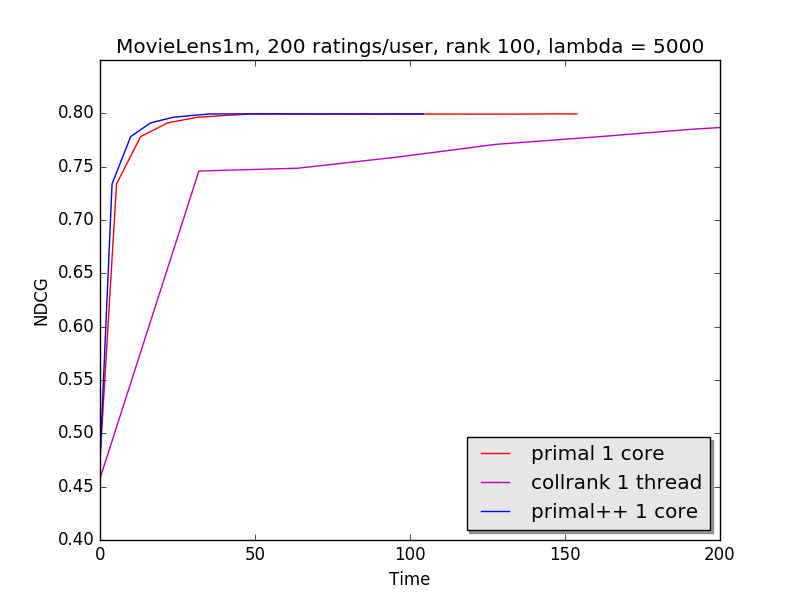
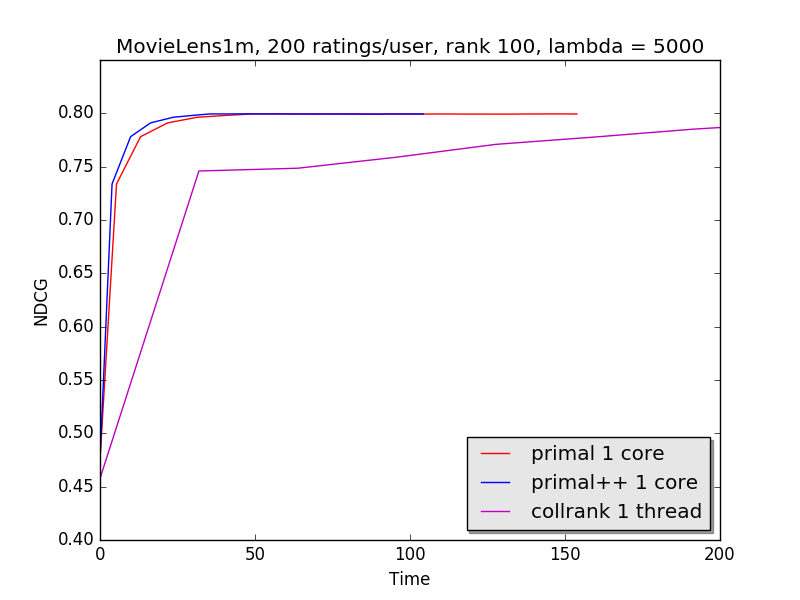
new results and new plots

Changed region(s): [[0.6562, 0.78, 0.875, 0.87], [0.5938, 0.84, 0.625, 0.87], [0.5938, 0.78, 0.625, 0.81]]

diff --git a/multiple_comparisons.py b/multiple_comparisons.py
@@ -118,18 +118,112 @@ plt.show()
 
 
 fig, ax = plt.subplots()
-#ax.plot(w20[:,1], w20[:,3], 'r--', label='primal++ 1 core, 20 ratings/user, ')
-ax.plot(w50[:,1], w50[:,4], 'y', label='primal++ 1 core, 50 ratings/user, ')
-ax.plot(w100[:,1], w100[:,4], 'm', label='primal++ 1 core, 100 ratings/user, ')
-ax.plot(wALL[:,1], wALL[:,4], 'r', label='primal++ 1 core, ALL ratings/user, ')
-#ax.plot(c20[:,1], c20[:,3], 'b--', label='Collrank 8 threads, 20 ratings/user, ')
-ax.plot(c50[:,1], c50[:,4], 'g', label='Collrank 8 threads, 50 ratings/user, ')
-ax.plot(c100[:,1], c100[:,4], 'k', label='Collrank 8 threads, 100 ratings/user, ')
-ax.plot(cALL[:,1], cALL[:,4], 'b', label='Collrank 8 threads, ALL ratings/user, ')
+ax.plot(w100[:,1], w100[:,4], 'y', label='primal++, 100 ratings/user, ')
+ax.plot(w200[:,1], w200[:,4], 'm', label='primal++, 200 ratings/user, ')
+ax.plot(wALL[:,1], wALL[:,4], 'r', label='primal++, ALL ratings/user, ')
+ax.plot(c100[:,1], c100[:,4], 'g', label='Collrank, 100 ratings/user, ')
+ax.plot(c200[:,1], c200[:,4], 'k', label='Collrank, 200 ratings/user, ')
+ax.plot(cALL[:,1], cALL[:,4], 'b', label='Collrank, ALL ratings/user, ')
 ax.set_title('Movielens1m, rank 100, lambda = 5000')
 ax.set_xlabel('Time')
 ax.set_ylabel('NDCG')
-ax.axis([0, 500, 0.8, 0.95])
+ax.axis([0, 600, 0.8, 0.95])
+legend = ax.legend(loc='lower right', shadow=True)
+frame = legend.get_frame()
+frame.set_facecolor('0.90')
+plt.show()
+
+
+
+# netflix 
+c100 = [
+[0, 1.274959, 1635174715.547165, 0.339939, 0.825891],
+[1, 2807.470494, 868787330.687747, 0.225250, 0.892637],                     
+[2, 5554.104146, 795659496.482044, 0.234046, 0.888513],                                                                     [3, 8607.687557, 732703565.288253, 0.216630, 0.896561],                                              [4, 11901.939931, 710332987.516510, 0.209245, 0.900613],
+[5, 14734.732480, 703181474.609954, 0.205986, 0.902742]
+]
+
+w100 = [
+[0, 0.0, 3.104201227569089e9, 0.3370612503920339, 0.8270589295773721],
+[1, 758.026451365, 9.093292182638285e8, 0.29012108362551114, 0.8576318383846491],
+[2, 1268.0814532959998, 8.00226565290458e8, 0.23400124426922872, 0.8870006022851462],
+[3, 2059.2630297709998, 7.176166101462697e8, 0.2129542963359061, 0.8983048123936501],
+[4, 3002.9207869469997, 7.049530811673784e8, 0.20759063451044324, 0.9015187613999887],
+[5, 3890.9395423379997, 7.015522170969367e8, 0.20555320160145027, 0.9029076858954467],
+[6, 4758.6520451629995, 7.001888827865567e8, 0.20455831726035315, 0.9035942382110752],
+[7, 5654.87765668, 6.995050762360861e8, 0.2040340639622298, 0.9039798835206194],
+[8, 6553.0171319949995, 6.991028590313526e8, 0.20377398538541236, 0.9041674278681452],
+[9, 7434.138969729999, 6.988378129745476e8, 0.20358747781938238, 0.9043112680114105],
+[10, 8338.437400457, 6.986487550853585e8, 0.20347028552960447, 0.9044160013926187],
+[11, 9244.082906137, 6.985062084719335e8, 0.2033754890428223, 0.9044747421316338],
+[12, 10117.825817495, 6.983943717379775e8, 0.20330489704621035, 0.9045164097743379],
+[13, 11044.356690179, 6.983040067704418e8, 0.20326053101367558, 0.9045529919037154],
+[14, 12090.212733668, 6.982293240182358e8, 0.20321690973468354, 0.9045911511553993],
+[15, 12952.93979126, 6.98166489961615e8, 0.2031833426285324, 0.904611314451005],
+[16, 13910.005332781, 6.981128524339632e8, 0.2031514778161961, 0.9046360211169883],
+[17, 14889.09199142, 6.980665106509316e8, 0.20312604980234533, 0.9046459015852302],
+[18, 16010.450114395, 6.980260622726946e8, 0.20310647342348004, 0.9046471996449771],
+[19, 16921.457602045, 6.979904472035501e8, 0.20306801222261303, 0.9046810732974607]
+]
+
+
+w200 = [
+[0, 0.0, 4.894810611395171e9, 0.3370612503920339, 0.8270589295773721],
+[1, 1201.834533829, 2.6468084386407547e9, 0.2730893148332908, 0.8664332066131606],
+[2, 2564.700072341, 1.817370074143698e9, 0.20590584240442236, 0.9032877662694269],
+[3, 3932.2804997780004, 1.6665412842800245e9, 0.19871710882330268, 0.9068498552375643],
+[4, 5293.911205403, 1.6377881305159297e9, 0.19648455048584182, 0.9081371849432358],
+[5, 6728.925144472, 1.625909694076408e9, 0.19508755242780018, 0.908978775944693],
+[6, 8371.963787394001, 1.619540550616677e9, 0.19427188770733844, 0.9095376768085387],
+[7, 9949.67377662, 1.6156447694178586e9, 0.1937352395823809, 0.9098594249514425],
+[8, 11584.961352919001, 1.6130230404952729e9, 0.19331232596289089, 0.9101331564259769],
+[9, 13068.64561664, 1.6111268524169197e9, 0.19301729716619864, 0.9103096785824207],
+[10, 14706.325626743, 1.6096803522707474e9, 0.1928274382092223, 0.9104305325871601],
+[11, 16247.511652442001, 1.608533646980944e9, 0.19263619613852248, 0.9105564041121083]
+]
+
+wALL = [
+[0, 0.0, 2.356595104129865e10, 0.3370612503920339, 0.8270589295773721],
+[1, 2499.885308779, 1.6324162774318296e10, 0.22614095577836765, 0.8886723885212457],
+[2, 5250.87474531, 1.3025803043487682e10, 0.1877387500314601, 0.9136425337809746],
+[3, 8160.924571495, 1.1778353292392849e10, 0.18249403598627645, 0.9172065764009472],
+[4, 11380.820924098, 1.1018778442620384e10, 0.18120268653808402, 0.9179732407004433],
+[5, 14674.481246448999, 1.0545434187009039e10, 0.18101612577537243, 0.9179751413029557]
+]
+import numpy as np
+import matplotlib.pyplot as plt
+
+c100 = np.array(c100)
+w100 = np.array(w100)
+w200 = np.array(w200)
+wALL = np.array(wALL)
+
+fig, ax = plt.subplots()
+ax.plot(w100[:,1], w100[:,3], 'y', label='primal++, 100 ratings/user, ')
+ax.plot(w200[:,1], w200[:,3], 'm', label='primal++, 200 ratings/user, ')
+ax.plot(wALL[:,1], wALL[:,3], 'r', label='primal++, ALL ratings/user, ')
+ax.plot(c100[:,1], c100[:,3], 'g', label='Collrank, 100 ratings/user, ')
+ax.set_title('Netflix, rank 100, lambda = 10000')
+ax.set_xlabel('Time')
+ax.set_ylabel('Pairwise_Error')
+ax.axis([0, 14000, 0.15, 0.4])
+legend = ax.legend(loc='upper right', shadow=True)
+frame = legend.get_frame()
+frame.set_facecolor('0.90')
+plt.show()
+
+
+fig, ax = plt.subplots()
+ax.plot(w100[:,1], w100[:,4], 'y', label='primal++, 100 ratings/user, ')
+ax.plot(w200[:,1], w200[:,4], 'm', label='primal++, 200 ratings/user, ')
+ax.plot(wALL[:,1], wALL[:,4], 'r', label='primal++, ALL ratings/user, ')
+ax.plot(c100[:,1], c100[:,4], 'g', label='Collrank, 100 ratings/user, ')
+ax.plot(c200[:,1], c200[:,4], 'k', label='Collrank, 200 ratings/user, ')
+ax.plot(cALL[:,1], cALL[:,4], 'b', label='Collrank, ALL ratings/user, ')
+ax.set_title('Netflix, rank 100, lambda = 10000')
+ax.set_xlabel('Time')
+ax.set_ylabel('NDCG')
+ax.axis([0, 14000, 0.8, 0.95])
 legend = ax.legend(loc='lower right', shadow=True)
 frame = legend.get_frame()
 frame.set_facecolor('0.90')

diff --git a/new_results.py b/new_results.py
@@ -154,11 +154,11 @@ ax.plot(w_1c[:,1], w_1c[:,4], 'r', label='primal 1 core')
 ax.plot(w2_1c[:,1], w2_1c[:,4], 'b', label='primal++ 1 core')
 #ax.plot(w_4c[:,1], w_4c[:,4], 'k-.', label='primal 4 cores')
 ax.plot(c_8t[:,1], c_8t[:,4], 'm--', label='collrank 8 threads')
-ax.plot(c_1t[:,1], c_1t[:,4], 'm', label='collrank 1 threads')
+ax.plot(c_1t[:,1], c_1t[:,4], 'm', label='collrank 1 thread')
 ax.set_title('MovieLens10m, 500 ratings/user, rank 100, lambda = 7000')
 ax.set_xlabel('Time')
 ax.set_ylabel('NDCG')
-ax.axis([0, 2100, 0.25, 0.75])
+ax.axis([0, 3000, 0.25, 0.75])
 legend = ax.legend(loc='lower right', shadow=True)
 frame = legend.get_frame()
 frame.set_facecolor('0.90')
@@ -167,11 +167,11 @@ plt.show()
 fig, ax = plt.subplots()
 ax.plot(w_1c[:,1], w_1c[:,3], 'r', label='primal 1 core')
 ax.plot(w2_1c[:,1], w2_1c[:,3], 'b', label='primal++ 1 core')
-ax.plot(c_1t[:,1], c_1t[:,3], 'm', label='collrank 1 threads')
+ax.plot(c_1t[:,1], c_1t[:,3], 'm', label='collrank 1 thread')
 ax.set_title('MovieLens10m, 500 ratings/user, rank 100, lambda = 7000')
 ax.set_xlabel('Time')
 ax.set_ylabel('Pairwise_Error')
-ax.axis([0, 2100, 0.15, 0.45])
+ax.axis([0, 3000, 0.15, 0.45])
 legend = ax.legend(loc='upper right', shadow=True)
 frame = legend.get_frame()
 frame.set_facecolor('0.90')
@@ -180,11 +180,11 @@ plt.show()
 fig, ax = plt.subplots()
 ax.plot(w_1c[:,1], w_1c[:,2], 'r', label='primal 1 core')
 ax.plot(w2_1c[:,1], w2_1c[:,2], 'b', label='primal++ 1 core')
-ax.plot(c_1t[:,1], c_1t[:,2], 'm', label='collrank 1 threads')
+ax.plot(c_1t[:,1], c_1t[:,2], 'm', label='collrank 1 thread')
 ax.set_title('MovieLens10m, 500 ratings/user, rank 100, lambda = 7000')
 ax.set_xlabel('Time')
 ax.set_ylabel('Objective_Function')
-ax.axis([0, 2100, 1.5e8, 6.5e8])
+ax.axis([0, 3000, 1.5e8, 6.5e8])
 legend = ax.legend(loc='upper right', shadow=True)
 frame = legend.get_frame()
 frame.set_facecolor('0.90')
@@ -251,7 +251,25 @@ w2_1c = [
 w_1c = [
 [0, 0.0, 2.7754824482995534e9, 0.33897966421164927, 0.49844107406957067],
 [1, 1070.144303483, 1.9139686645054314e9, 0.2526986029777938, 0.7071191628757021],
-[2, 2952.678076598, 1.3780275160640373e9, 0.1906686910354331, 0.7944758307912962]
+[2, 2952.678076598, 1.3780275160640373e9, 0.1906686910354331, 0.7944758307912962],
+[3, 5043.851356716001, 1.2846107273857462e9, 0.1856893802827637, 0.7947540760577223],
+[4, 6959.0090204670005, 1.2676471760583866e9, 0.1828817423550167, 0.7985454695955504],
+[5, 8385.430786538, 1.2604443293996606e9, 0.18102055528016353, 0.8020083540372572],
+[6, 9832.507603091999, 1.256461868534279e9, 0.17989057610099593, 0.804405500600523],
+[7, 11431.894380889999, 1.25393528271528e9, 0.17916692963122213, 0.8061634362624159],
+[8, 13202.126772890999, 1.252176028127495e9, 0.17866036289605272, 0.8074470653910719],
+[9, 14751.056773834998, 1.2508719527688234e9, 0.17828702945981834, 0.8084046916645529],
+[10, 16252.528658459998, 1.2498636460687366e9, 0.17800752002522163, 0.8092185596441203],
+[11, 17725.760844538, 1.2490605644060166e9, 0.17778805637326392, 0.8098311875897057],
+[12, 19197.140947875, 1.2484065792339487e9, 0.17761757682777865, 0.810342565298811],
+[13, 20673.977561652, 1.247864524441093e9, 0.1774704837404785, 0.8108110740462484],
+[14, 22132.497498724, 1.2474085764040554e9, 0.1773517193918157, 0.8111565523149337],
+[15, 23616.058209102997, 1.2470202172723153e9, 0.1772549856966687, 0.8114565883351511],
+[16, 25094.477754048, 1.2466858281947885e9, 0.17717152164694858, 0.8116387810189832],
+[17, 26573.320459312, 1.246395141232389e9, 0.1770989448078973, 0.8118585819835681],
+[18, 28035.538550667, 1.2461403094980571e9, 0.1770400735032576, 0.8120151535802075],
+[19, 29504.198860296998, 1.2459152168066962e9, 0.17698808623547127, 0.8121926162143244],
+[20, 30954.019169653, 1.2457150324717607e9, 0.1769454295255306, 0.8122989572179503]
 ]
 
 c_1t = [
@@ -319,15 +337,46 @@ c_8t = [
 
 c_8t = np.array(c_8t)
 w2_1c = np.array(w2_1c)
-
+w_1c = np.array(w_1c)
+c_1t = np.array(c_1t)
 fig, ax = plt.subplots()
-ax.plot(c_8t[:,1], c_8t[:,4], 'm', label='collrank 8 threads')
+#ax.plot(c_8t[:,1], c_8t[:,4], 'm', label='collrank 8 threads')
+ax.plot(w_1c[:,1], w_1c[:,4], 'r', label='primal 1 core')
 ax.plot(w2_1c[:,1], w2_1c[:,4], 'b', label='primal++ 1 core')
+ax.plot(c_1t[:,1], c_1t[:,4], 'm', label='collrank 1 thread')
 ax.set_title('Netflix, 200 ratings/user, rank 100, lambda = 10000')
 ax.set_xlabel('Time')
 ax.set_ylabel('NDCG')
-ax.axis([0, 20000, 0.45, 0.85])
+ax.axis([0, 24000, 0.45, 0.85])
 legend = ax.legend(loc='lower right', shadow=True)
+frame = legend.get_frame()
+frame.set_facecolor('0.90')
+plt.show()
+
+fig, ax = plt.subplots()
+ax.plot(w_1c[:,1], w_1c[:,3], 'r', label='primal 1 core')
+ax.plot(w2_1c[:,1], w2_1c[:,3], 'b', label='primal++ 1 core')
+ax.plot(c_1t[:,1], c_1t[:,3], 'm', label='collrank 1 thread')
+ax.set_title('Netflix, 200 ratings/user, rank 100, lambda = 10000')
+ax.set_xlabel('Time')
+ax.set_ylabel('Pairwise_Error')
+ax.axis([0, 24000, 0.15, 0.45])
+legend = ax.legend(loc='upper right', shadow=True)
+frame = legend.get_frame()
+frame.set_facecolor('0.90')
+plt.show()
+
+
+
+fig, ax = plt.subplots()
+ax.plot(w_1c[:,1], w_1c[:,2], 'r', label='primal 1 core')
+ax.plot(w2_1c[:,1], w2_1c[:,2], 'b', label='primal++ 1 core')
+ax.plot(c_1t[:,1], c_1t[:,2], 'm', label='collrank 1 thread')
+ax.set_title('Netflix, 200 ratings/user, rank 100, lambda = 10000')
+ax.set_xlabel('Time')
+ax.set_ylabel('Objective_Function')
+ax.axis([0, 24000, 1.0e9, 3.5e9])
+legend = ax.legend(loc='upper right', shadow=True)
 frame = legend.get_frame()
 frame.set_facecolor('0.90')
 plt.show()

diff --git a/plot_movielens1m.py b/plot_movielens1m.py
@@ -193,10 +193,11 @@ fig, ax = plt.subplots()
 ax.plot(w_1c[:,1], w_1c[:,4], 'r', label='primal 1 core')
 ax.plot(w_4c[:,1], w_4c[:,4], 'k-.', label='primal 4 cores')
 ax.plot(w_8c[:,1], w_8c[:,4], 'c--', label='primal 8 cores')
+ax.plot(w2_1c[:,1], w2_1c[:,4], 'b', label='primal++ 1 core')
 ax.plot(c_1t[:,1], c_1t[:,4], 'm', label='collrank 1 thread')
 ax.plot(c_4t[:,1], c_4t[:,4], 'm-.', label='collrank 4 threads')
 ax.plot(c_8t[:,1], c_8t[:,4], 'm:', label='collrank 8 threads')
-ax.plot(w2_1c[:,1], w2_1c[:,4], 'b', label='primal++ 1 core')
+
 ax.set_title('MovieLens1m, 200 ratings/user, rank 100, lambda = 5000')
 ax.set_xlabel('Time')
 ax.set_ylabel('NDCG')
@@ -210,10 +211,11 @@ fig, ax = plt.subplots()
 ax.plot(w_1c[:,1], w_1c[:,3], 'r', label='primal 1 core')
 ax.plot(w_4c[:,1], w_4c[:,3], 'k-.', label='primal 4 cores')
 ax.plot(w_8c[:,1], w_8c[:,3], 'c--', label='primal 8 cores')
+ax.plot(w2_1c[:,1], w2_1c[:,3], 'b', label='primal++ 1 core')
 ax.plot(c_1t[:,1], c_1t[:,3], 'm', label='collrank 1 thread')
 ax.plot(c_4t[:,1], c_4t[:,3], 'm-.', label='collrank 4 threads')
 ax.plot(c_8t[:,1], c_8t[:,3], 'm:', label='collrank 8 threads')
-ax.plot(w2_1c[:,1], w2_1c[:,3], 'b', label='primal++ 1 core')
+
 ax.set_title('MovieLens1m, 200 ratings/user, rank 100, lambda = 5000')
 ax.set_xlabel('Time')
 ax.set_ylabel('Pairwise_Error')
@@ -228,10 +230,10 @@ fig, ax = plt.subplots()
 ax.plot(w_1c[:,1], w_1c[:,2], 'r', label='primal 1 core')
 ax.plot(w_4c[:,1], w_4c[:,2], 'k-.', label='primal 4 cores')
 ax.plot(w_8c[:,1], w_8c[:,2], 'c--', label='primal 8 cores')
+ax.plot(w2_1c[:,1], w2_1c[:,2], 'b', label='primal++ 1 core')
 ax.plot(c_1t[:,1], c_1t[:,2], 'm', label='collrank 1 thread')
 ax.plot(c_4t[:,1], c_4t[:,2], 'm-.', label='collrank 4 threads')
 ax.plot(c_8t[:,1], c_8t[:,2], 'm:', label='collrank 8 threads')
-ax.plot(w2_1c[:,1], w2_1c[:,2], 'b', label='primal++ 1 core')
 ax.set_title('MovieLens1m, 200 ratings/user, rank 300, lambda = 5000')
 ax.set_xlabel('Time')
 ax.set_ylabel('Objective_Function')
